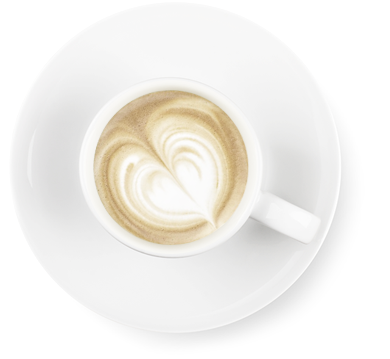
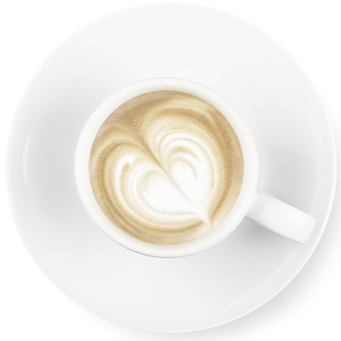
Added Dealer Section

diff --git a/index.html b/index.html
@@ -75,17 +75,17 @@
 
         <!-- Hero Section -->
 
-        <section>
-            <div class="hero bg-[url(./images/hero-bg1.jpg)] bg-no-repeat bg-center bg-cover py-35 my-25">
+        <section class="hero-section">
+            <div class="bg-[url(./images/hero-bg1.jpg)] bg-no-repeat bg-center bg-cover py-35 my-25">
                 <div class="max-w-4/5 h-4/5 mx-auto space-y-5 flex flex-col justify-center">
-                    <h1 class="text-8xl leading-30 font-bold">Espresso bar<br><span class="secondary-color">coffee
+                    <h1 class="text-8xl leading-25 font-bold">Espresso bar<br><span class="secondary-color">coffee
                             news</span></h1>
                     <p class="text-2xl">Sed sagittis sodales lobortis. Curabitur in eleifend turpis, id <br>vehicula
                         odio.
                         Donec pulvinar
                         tellus eget magna aliquet ultricies.
                     </p>
-                    <div class="buttons flex gap-10 font-bold">
+                    <div class="buttons flex gap-5 font-bold mt-10">
                         <div class="read-btn bg-black text-white px-12 py-3 rounded">
                             Read more
                         </div>
@@ -99,7 +99,7 @@
 
         <!-- About Market -->
 
-        <section>
+        <section class="about-section">
             <div class="wrapper bg-[#242424]">
                 <div
                     class="max-w-4/5 mx-auto py-25 bg-[url(./images/beans-2.png)] bg-no-repeat bg-left bg-contain flex items-center gap-30">
@@ -152,9 +152,9 @@
             </div>
         </section>
 
-        <!-- Coffee Beans -->
+        <!-- Product Section -->
 
-        <section class="tertiary-bg">
+        <section class="product-section tertiary-bg">
             <div class="wrapper max-w-4/5 mx-auto py-25">
 
                 <div class="section-heading relative flex justify-center items-center">
@@ -223,8 +223,40 @@
             </div>
         </section>
 
+        <!-- Dealer Section -->
 
+        <section class="dealer-section">
+            <div class="wrapper max-w-4/5 mx-auto grid grid-cols-[1.25fr_1.25fr_2fr] gap-10 items-center justify-center py-25">
 
+                <div class="font-semibold -space-y-1">
+                    <h4 class="text-4xl">More Than</h4>
+                    <h1 class="text-9xl secondary-color">5400</h1>
+                    <h2 class="text-6xl">customers<br>trust us</h2>
+                </div>
+
+                <div>
+                    <img src="./images/coffee-cup.png" alt="">
+                </div>
+
+                <div class="flex flex-col gap-4">
+                    <h1 class="text-6xl font-bold">Become our dealer</h1>
+                    <p class="text-left">Curabitur sollicitudin ultrices tortor, eget pulvinar risus cursus eu. Vivamus
+                        sit amet odio
+                        massa. Vivamus dapibus elementum tellus nec fermentum. Sed blandit condimentum molestie. In hac
+                        habitasse platea dictumst. Etiam fringilla a elit at ornare.</p>
+
+                    <div class="buttons flex gap-5 font-bold mt-5">
+                        <div class="read-btn bg-black text-white px-12 py-3 rounded">
+                            Become our dealer
+                        </div>
+                        <div class="view-product-btn secondary-bg text-white px-12 py-3 rounded">
+                            Contact Us
+                        </div>
+                    </div>
+
+                </div>
+            </div>
+        </section>
 
     </main>
 </body>
